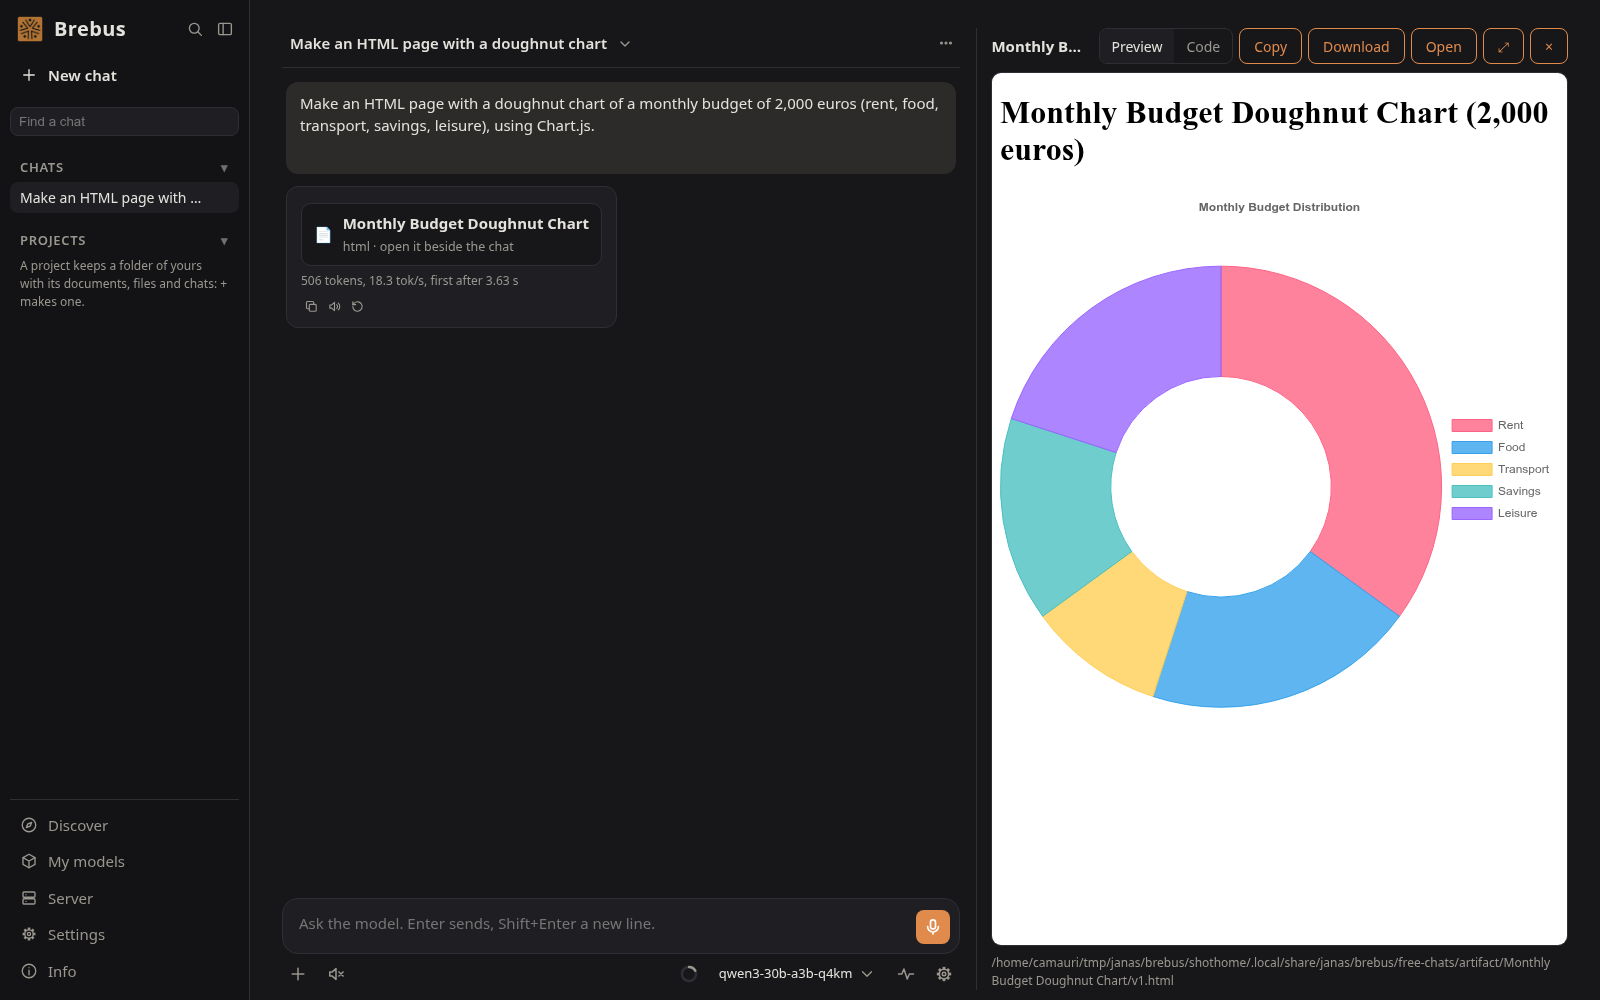
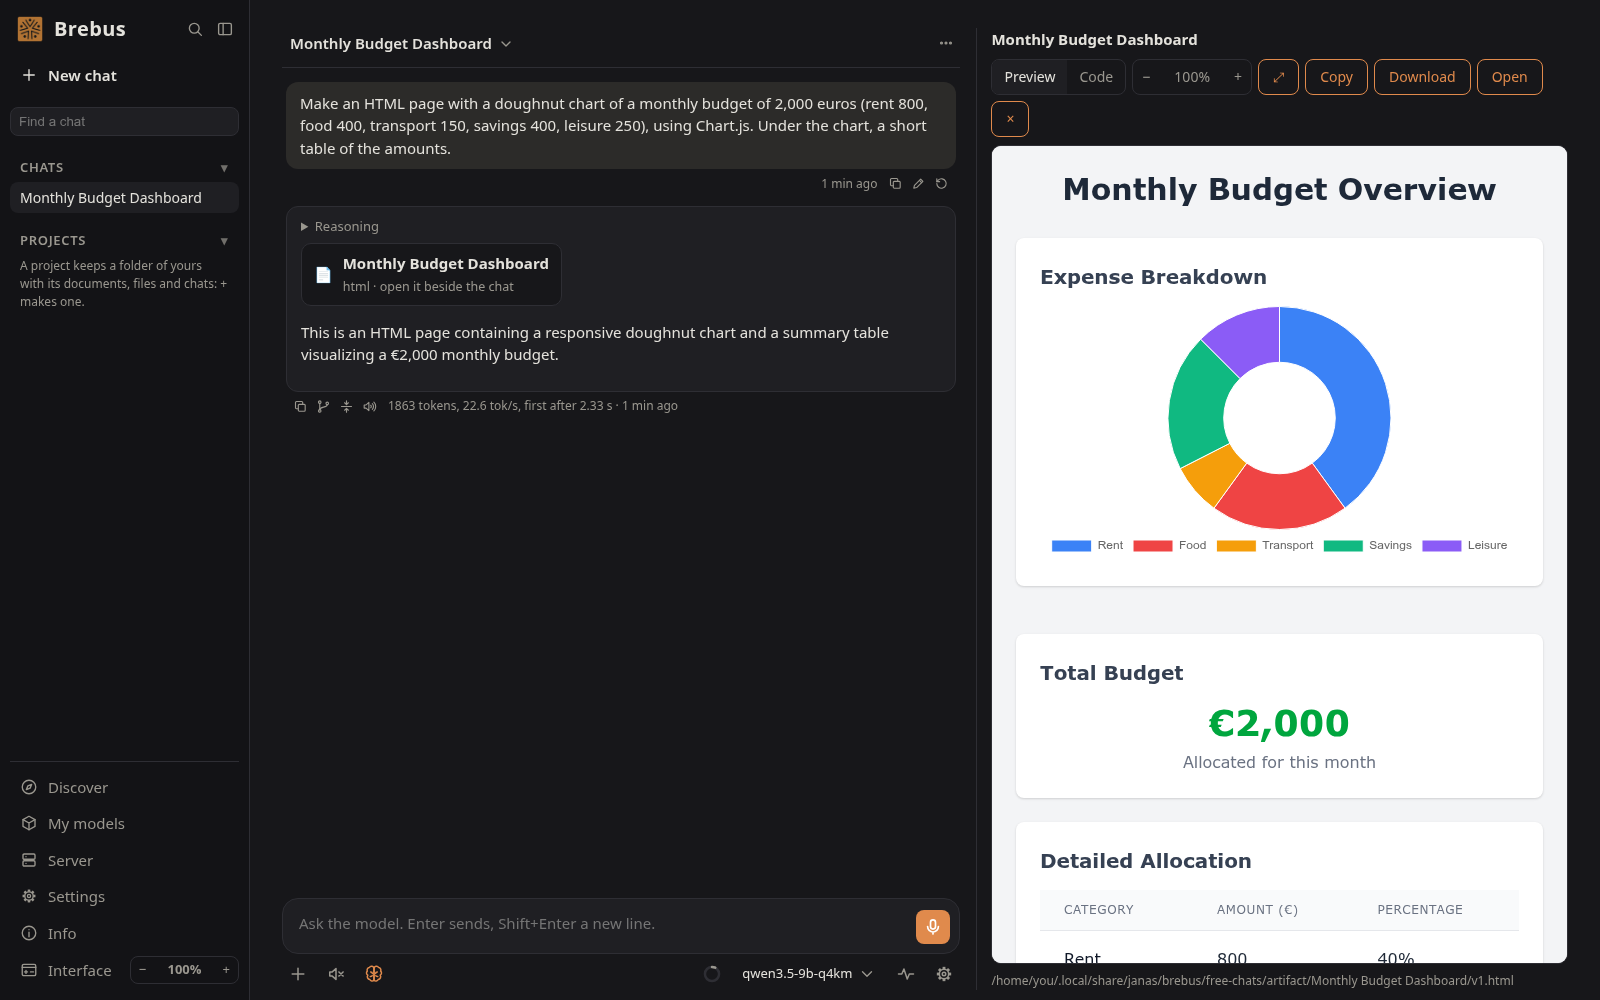
README: the new screenshot, the guide's sections linked, what it does as it is now; the names left to be found

diff --git a/README.md b/README.md
@@ -2,7 +2,7 @@
 
 **AI models on your own computer, in a window of their own, with no cloud.** Brebus is the app of [Janas](https://github.com/prabanta-dev/janas): chats and projects with the models of your computer, your documents searched and given to them, artifacts, code run in a cage, voice, tools, and a server for other programs. Nothing leaves the computer unless you ask it to: the models run on it, your chats and documents stay on it.
 
-![Brebus: a chat with Qwen3-30B-A3B, which made a page with a doughnut chart of a monthly budget, open beside the chat as an artifact](img/brebus.png)
+![Brebus: a chat with Qwen3.5-9B, which reasoned and made a page with a doughnut chart of a monthly budget, open beside the chat as an artifact](img/brebus.png)
 
 > **Download Brebus only from here** and from [Janas's releases](https://github.com/prabanta-dev/janas/releases). Other sites using these names are not the project's.
 
@@ -14,7 +14,7 @@
 | **Linux** x86-64, Ubuntu 22.04, Debian 12 and later | [brebus_amd64.deb](https://github.com/prabanta-dev/brebus/releases/latest/download/brebus_amd64.deb) (`sudo apt install ./brebus_amd64.deb`), or without installing: [brebus-linux-x86_64.tar.gz](https://github.com/prabanta-dev/brebus/releases/latest/download/brebus-linux-x86_64.tar.gz) (unpack it, start `./brebus`) |
 | **Linux** x86-64, with .rpm packages | [brebus.x86_64.rpm](https://github.com/prabanta-dev/brebus/releases/latest/download/brebus.x86_64.rpm) (`sudo dnf install ./brebus.x86_64.rpm`) |
 
-The SHA-256 of every file: `SHA256SUMS` in the [release](https://github.com/prabanta-dev/brebus/releases/latest). Each release of Brebus is built from the sources of the [release of Janas](https://github.com/prabanta-dev/janas/releases) of the same date, by GitHub.
+The SHA-256 of every file: `SHA256SUMS` in the [release](https://github.com/prabanta-dev/brebus/releases/latest). Each release of Brebus is built from the sources of the [release of Janas](https://github.com/prabanta-dev/janas/releases) of the same version, by GitHub. Installing and removing it, step by step: [the guide](https://github.com/prabanta-dev/janas/blob/main/docs/brebus.md#install-it).
 
 - **Windows** warns that the setup is from an unknown publisher (Windows protected your PC): it is not signed yet. *More info*, then *Run anyway*.
 - **Linux**: the .deb and the .rpm put Brebus in `/opt/brebus-janas`, `brebus` on the PATH and in the desktop's menu; removing the package takes it all away (your chats and models are yours, in your home). The window is WebKitGTK's (`libwebkit2gtk-4.1-0` on Debian and Ubuntu, `webkit2gtk4.1` with .rpm, both recommended by the packages); where it is missing, or there is no display, Brebus opens its page in the browser.
@@ -26,14 +26,17 @@ The SHA-256 of every file: `SHA256SUMS` in the [release](https://github.com/prab
 - **Replies written in full Markdown**: lists, tables, task lists, quotes, code, formulas. The reader passes all 652 examples of the CommonMark 0.31.2 specification and the 51 of GitHub's extensions.
 - **Long chats**: when a chat fills the model's memory, the model summarizes the earlier messages and goes on from the summary; how much it keeps in mind is chosen in tokens, up to what each model takes (262,144 for Qwen3.5).
 - **Reasoning** seen while the model works, turned on or off for each chat, for the models that reason.
+- **Every message a point to go back to**: change a question and ask again, go back to it, or branch a new chat from a reply to try another way.
 - **Artifacts**: pages, apps, charts and documents made by the model open beside the chat, each with its versions and its own zoom.
 - **Run code**: Python run by the model in a cage, with no network and no access to your files beyond the project.
 - **Voice**: speech to text with Whisper, replies read aloud.
 - **Tools**: Janas's services (weather, maps, files, git, Wikipedia...) and any MCP server.
 - **A server for other programs**: the model loaded answers editors and other apps through an API that follows OpenAI's, Ollama's and Anthropic's.
+- **Started at login**, if you like, without its window: the model you used last ready for other programs.
 - **Served from a browser**, to the users of a machine, with a login, a second factor and HTTPS.
+- **The size of the whole window** at the side bar's foot, or with Ctrl+wheel.
 
-The guide to all of it: [docs/brebus.md](https://github.com/prabanta-dev/janas/blob/main/docs/brebus.md).
+The guide to all of it, from installing it to every button, with what to do when something goes wrong: [docs/brebus.md](https://github.com/prabanta-dev/janas/blob/main/docs/brebus.md).
 
 ## How it works
 
@@ -43,4 +46,4 @@ Brebus is a small program that shows its page in a window (WebView2 on Windows, 
 
 Brebus is part of **Janas**: its sources, documentation and issues are at [github.com/prabanta-dev/janas](https://github.com/prabanta-dev/janas) (`src/brebus/`). **A problem with Brebus, or an idea: [open an issue at Janas](https://github.com/prabanta-dev/janas/issues/new)**, saying it is about Brebus, its version (Info) and your system. This repository only hosts the releases: its issues send you there.
 
-Brebus and Janas are free software under the GNU General Public License, version 3 or later ([LICENSE](LICENSE)), by **Maurizio "camauri" Cammalleri**. *Brebus*, in Sardinian, are the magic words of the *janas*.
+Brebus and Janas are free software under the GNU General Public License, version 3 or later ([LICENSE](LICENSE)), by **Maurizio "camauri" Cammalleri**.
